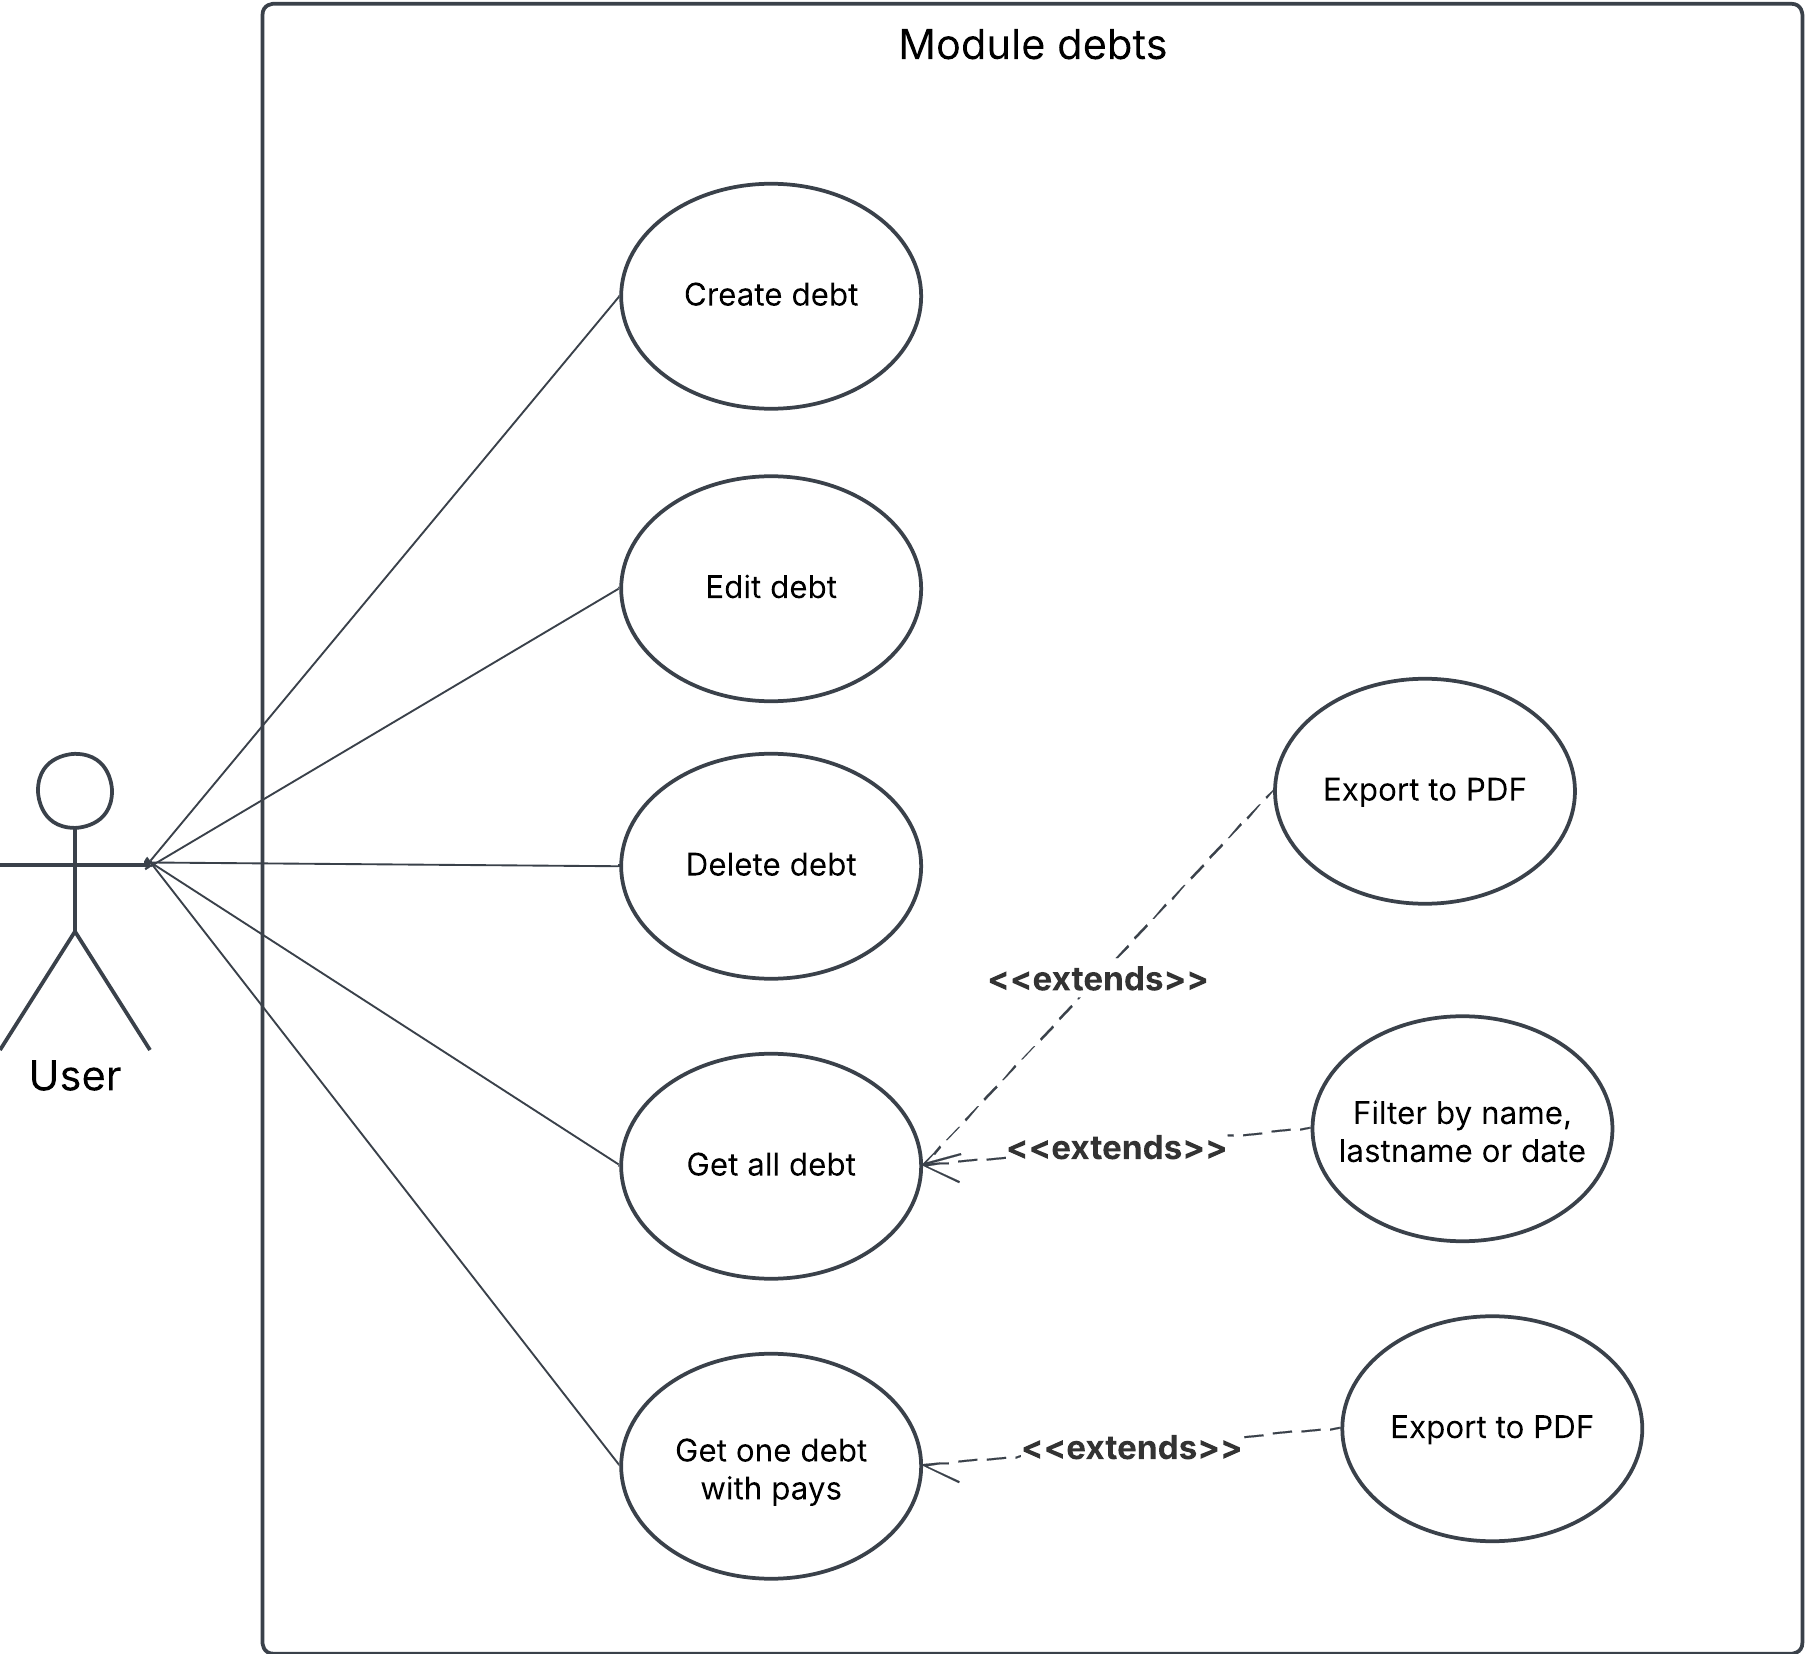
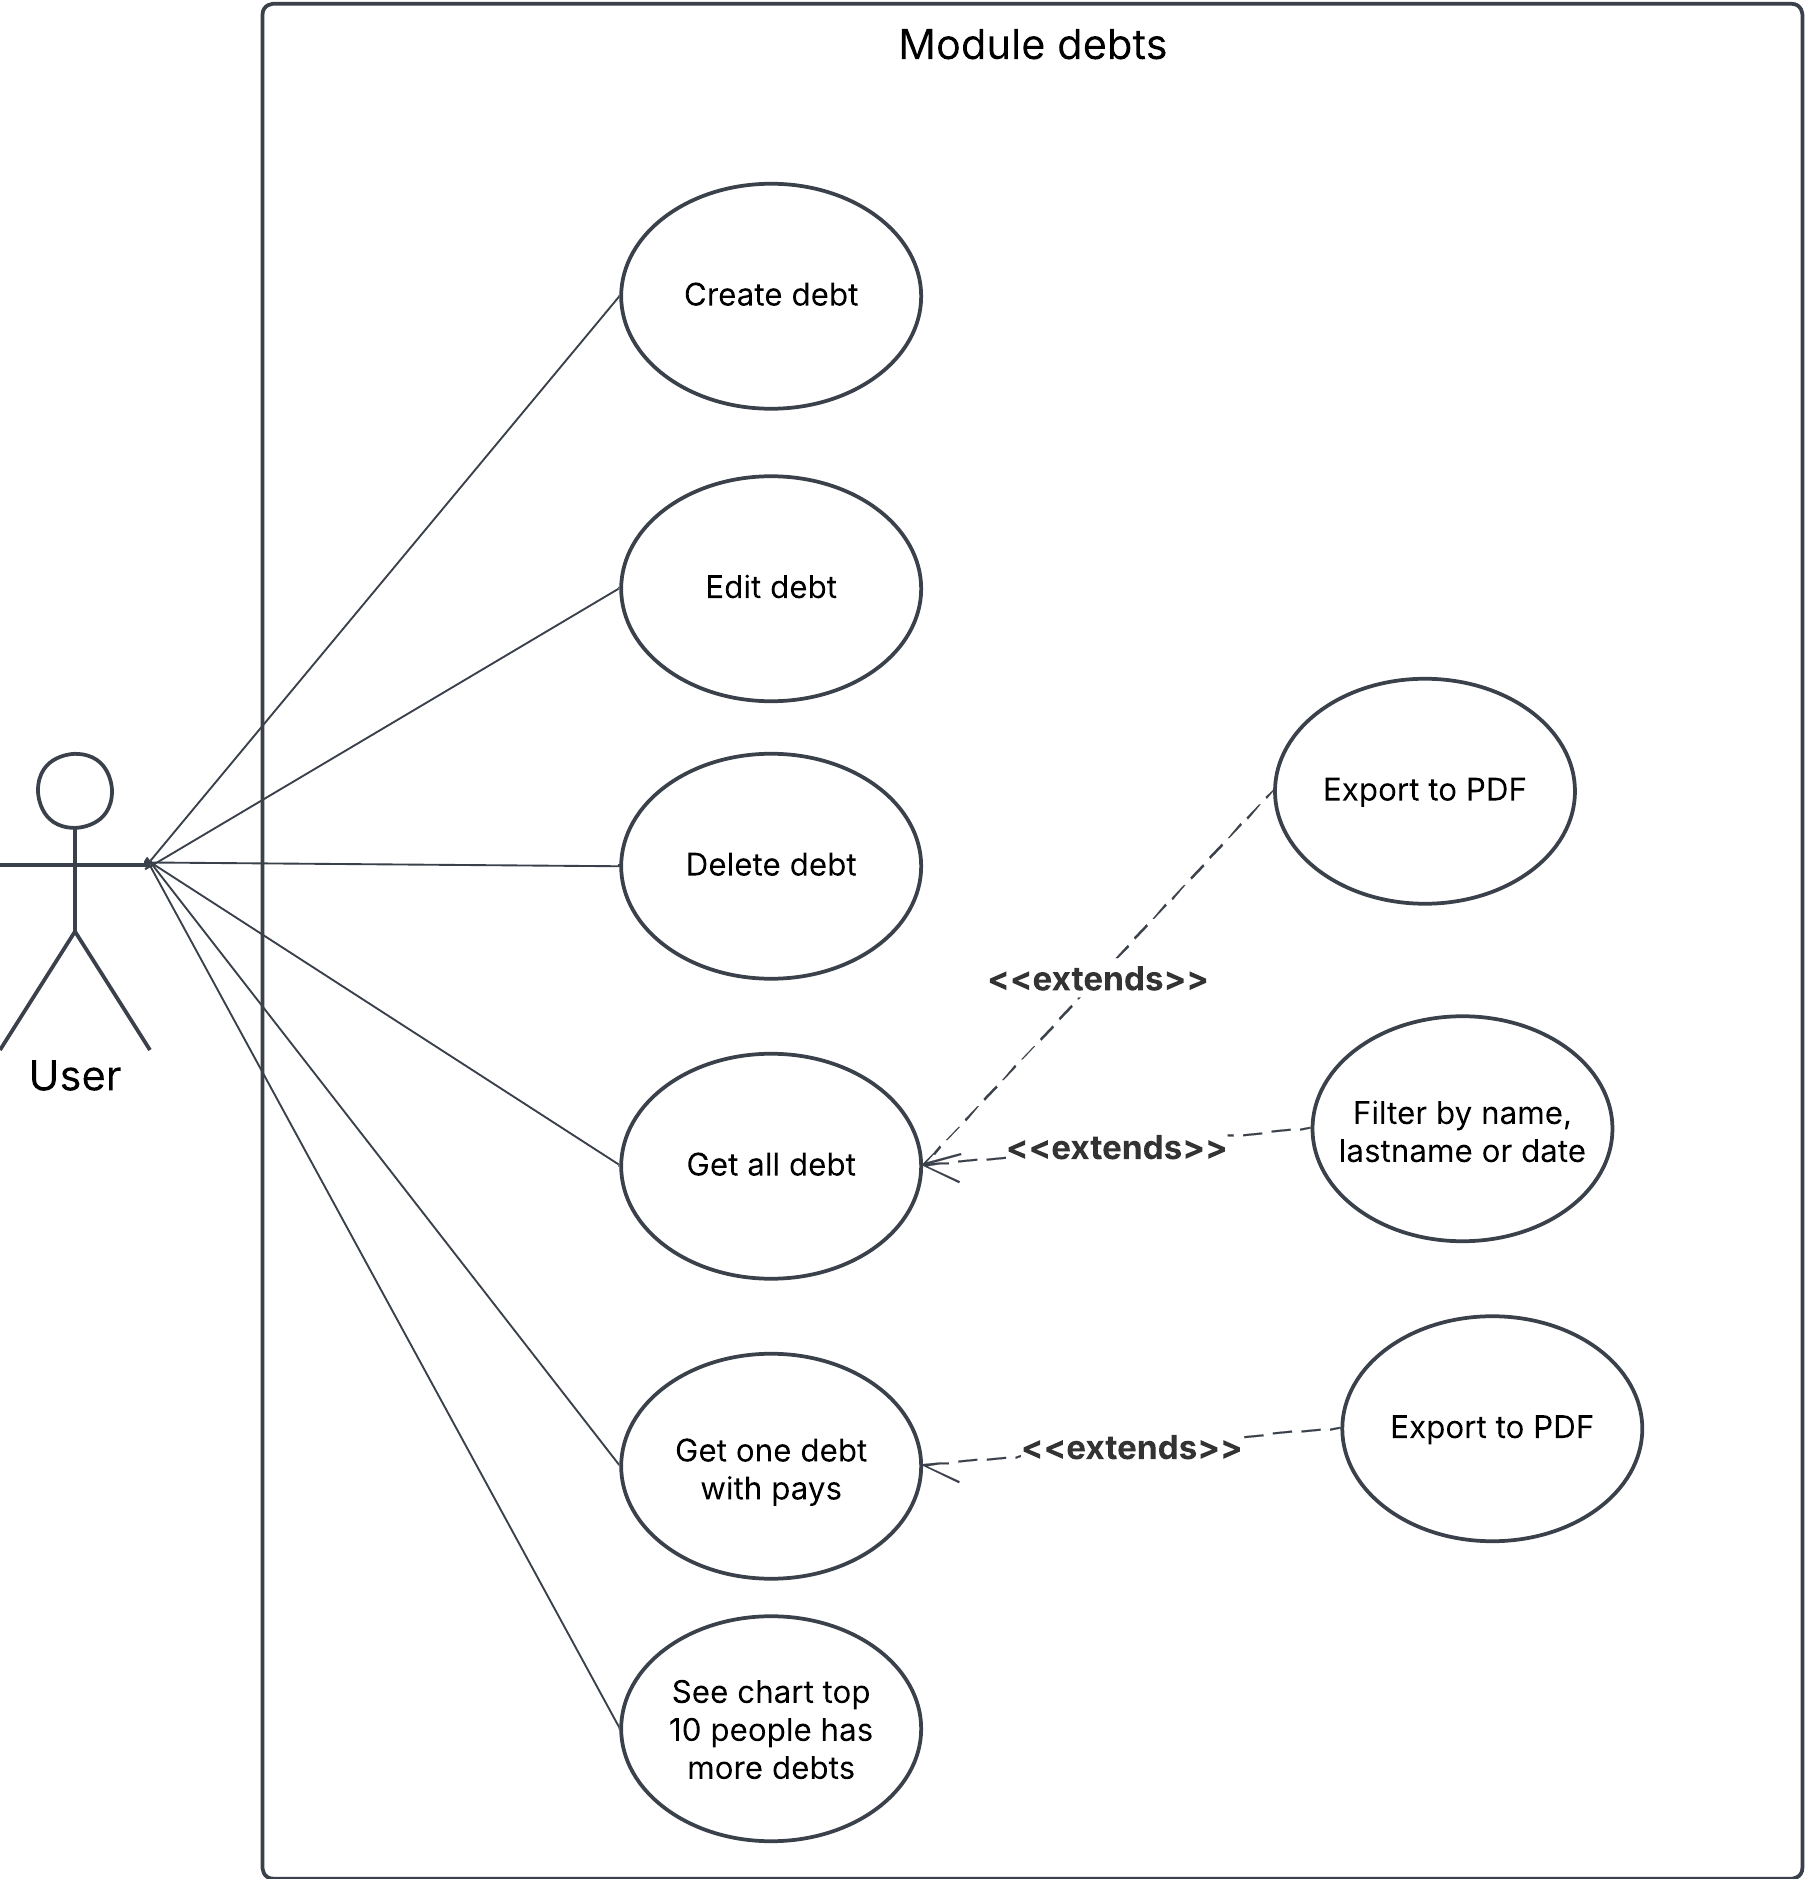
docs: :memo: update readme.md

diff --git a/README.md b/README.md
@@ -6,21 +6,21 @@ CrediControl es una aplicación web diseñada para ayudarte a llevar el control 
 
 ## 🧩 Funcionalidades clave
 
-- Registro y seguimiento de ingresos y egresos con filtros avanzados.
-- Gestión completa de deudas y deudores.
-- Gestión completa de contactos.
-- Configuración de presupuestos.
-- Visualización de transacciones por nombre, tipo, fecha.
-- Seguridad y rendimiento con arquitectura moderna y escalable.
-- Generación de reportes en pdf.
-- Auditoria de cada acción realizada.
+-   Registro y seguimiento de ingresos y egresos con filtros avanzados.
+-   Gestión completa de deudas y deudores.
+-   Gestión completa de contactos.
+-   Configuración de presupuestos.
+-   Visualización de transacciones por nombre, tipo, fecha.
+-   Seguridad y rendimiento con arquitectura moderna y escalable.
+-   Generación de reportes en pdf.
+-   Auditoria de cada acción realizada.
 
 ---
 
 ## 🔧 Tecnologías utilizadas
 
-- **Laravel** – Framework PHP robusto y elegante para desarrollo backend, basado en arquitectura por capas y principios SOLID.
-- **MySQL** – Sistema de gestión de bases de datos relacional, ideal para almacenar y consultar transacciones, deudas y auditorías de forma eficiente.
+-   **Laravel** – Framework PHP robusto y elegante para desarrollo backend, basado en arquitectura por capas y principios SOLID.
+-   **MySQL** – Sistema de gestión de bases de datos relacional, ideal para almacenar y consultar transacciones, deudas y auditorías de forma eficiente.
 
 ---
 
@@ -28,71 +28,80 @@ CrediControl es una aplicación web diseñada para ayudarte a llevar el control 
 
 ### 👤 Módulo Auth
 
-- Como usuario registrado quiero poder iniciar sesión en el sistema para acceder a mis funcionalidades personalizadas y datos privados.
-- Como usuario autenticado quiero poder ver mi perfil personal para revisar mi información.
-- Como usuario autenticado quiero poder cerrar sesión de forma segura para proteger mi cuenta y evitar accesos no autorizados.
+-   Como usuario registrado quiero poder iniciar sesión en el sistema para acceder a mis funcionalidades personalizadas y datos privados.
+-   Como usuario autenticado quiero poder ver mi perfil personal para revisar mi información.
+-   Como usuario autenticado quiero poder cerrar sesión de forma segura para proteger mi cuenta y evitar accesos no autorizados.
 
 ### 👤 Módulo Contacto
 
-- Obtener todos los contactos registrados para gestionar el sistema.
-- Obtener un contactos específico junto con sus deudas para visualizar su estado financiero.
-- Filtrar deudas de contactos por descripción o fecha.
-- Editar la información de un contactos existente.
-- Eliminar un contactos del sistema.
+-   Obtener todos los contactos registrados para gestionar el sistema.
+-   Obtener un contactos específico junto con sus deudas para visualizar su estado financiero.
+-   Filtrar deudas de contactos por descripción o fecha.
+-   Editar la información de un contactos existente.
+-   Eliminar un contactos del sistema.
 
 ### 💸 Módulo Transacciones
 
-- Crear una transacción (ingreso o egreso).
-- Editar una transacción.
-- Eliminar una transacción.
-- Obtener todas mis transacciones.
-- Filtrar transacciones por descripción, tipo, fecha de inicio.
-- Configurar mi presupuesto inicial.
+-   Crear una transacción (ingreso o egreso).
+-   Editar una transacción.
+-   Eliminar una transacción.
+-   Obtener todas mis transacciones.
+-   Filtrar transacciones por descripción, tipo, fecha de inicio.
+-   Configurar mi presupuesto inicial.
+-   Ver gráfico de balance de mis ingresos y egresos
 
 ### 🧾 Módulo Deudas
 
-- Crear una deuda a un usuario, monto y fecha.
-- Editar una deuda.
-- Eliminar una deuda.
-- Obtener todas las deudas registradas.
-- Filtrar deudas por nombre, apellido, fecha de inicio, fecha de fin o rango de fechas.
-- Obtener los detalles de una deuda específica.
+-   Crear una deuda a un usuario, monto y fecha.
+-   Editar una deuda.
+-   Eliminar una deuda.
+-   Obtener todas las deudas registradas.
+-   Filtrar deudas por nombre, apellido, fecha de inicio, fecha de fin o rango de fechas.
+-   Obtener los detalles de una deuda específica.
+-   Ver gráfico de top 10 más deudores
 
 ### 🧾 Módulo Pagos
 
-- Registrar el pago de una deuda.
-- Editar los detalles de un pago registrado.
-- Consultar los detalles de un pago específico.
-- Eliminar un pago registrado.
-- Subir imágenes asociadas a un pago.
-- Eliminar una imagen específica asociada a un pago.
-- Eliminar todas las imágenes asociadas a un pago.
+-   Registrar el pago de una deuda.
+-   Editar los detalles de un pago registrado.
+-   Consultar los detalles de un pago específico.
+-   Eliminar un pago registrado.
+-   Subir imágenes asociadas a un pago.
+-   Eliminar una imagen específica asociada a un pago.
+-   Eliminar todas las imágenes asociadas a un pago.
 
 ### 🕵♂ Módulo Auditoría
 
-- Registrar y consultar acciones realizadas por los usuarios en la aplicación.
+-   Registrar y consultar acciones realizadas por mi en la aplicación.
+
+### 🧾 Módulo Admin (futuro)
+
+-   Registrar y consultar acciones realizadas por los usuarios en la aplicación.
+-   Crear un nuevo usuario.
+-   Editar los datos de un usuario existente.
+-   Ver la lista de todos los usuarios registrados.
+-   Ver el detalle de un usuario específico.
+-   Filtrar usuarios por nombre, apellido y correo electrónico.
+-   Activar o desactivar la cuenta de un usuario.
+-   Eliminar un usuario del sistema.
+-   Ver la auditoría completa de los usuarios.
+-   Exportar la lista de usuarios a PDF.
+-   Registrar cada acción relevante en la auditoría del sistema.
 
 ---
 
-### 📈 Módulo Estadísticas *(Futuro)*
-
-- Visualizar gráficas de ingresos y egresos.
-- Ver estadísticas mensuales y anuales.
-- Comparar ingresos vs egresos en un periodo determinado.
-
-
-
 ## 🖼 Diagramas y Referencias Visuales
 
-- **Casos de Uso**  
-- ![Módulo Auth](/public/assets/auth.png)
-- ![Módulo User](/public/assets/user.png)
-- ![Módulo Transactions](/public/assets/transactions.png)
-- ![Módulo Debs](/public/assets/debts.png)
-- ![Módulo Pay](/public/assets/pay.png)
+-   **Casos de Uso**
+-   ![Módulo Auth](/public/assets/auth.png)
+-   ![Módulo User](/public/assets/user.png)
+-   ![Módulo Transactions](/public/assets/transactions.png)
+-   ![Módulo Debs](/public/assets/debts.png)
+-   ![Módulo Pay](/public/assets/pays.png)
+-   ![Módulo Admin](/public/assets/admin.png)
 
-- **Modelo de Base de Datos**  
-  ![Diagrama de Base de Datos](/public/assets/bd.png)
+-   **Modelo de Base de Datos**  
+    ![Diagrama de Base de Datos](/public/assets/bd.png)
 
 ---
 
@@ -109,4 +118,13 @@ php artisan storage:link
 php artisan migrate --seed
 npm run dev
 php artisan serve
+```
 
+## APP funcionando
+
+-   ![Dashboard](/public/assets/auth.png)
+-   ![Contacts](/public/assets/user.png)
+-   ![Transactions](/public/assets/transactions.png)
+-   ![Debs](/public/assets/debts.png)
+-   ![Pay](/public/assets/pays.png)
+-   ![Audit](/public/assets/admin.png)
